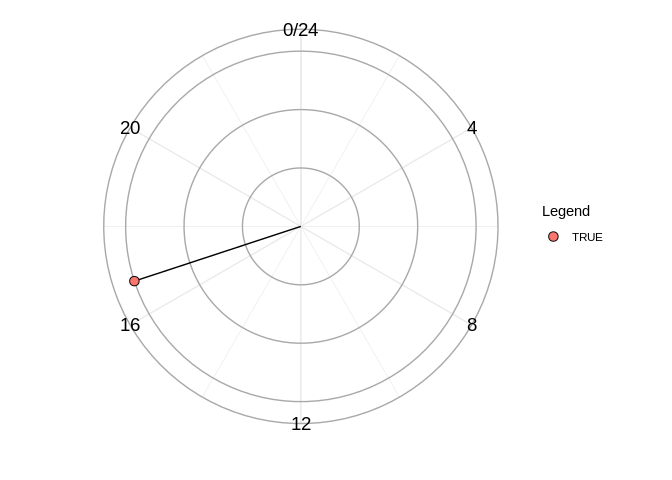
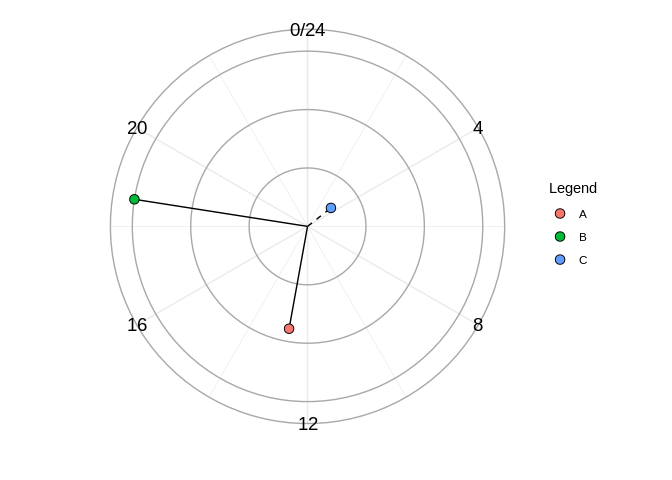
updated with placeholder figues

diff --git a/README.md b/README.md
@@ -163,7 +163,15 @@ interventions (explored further in Sections 3 and 4).
 
 ### Figures
 
+``` r
+gg_kronos_circle(output)
+```
+
 ![](README_files/figure-gfm/figures-1.png)<!-- -->
+
+``` r
+gg_kronos_sinusoid(output)
+```
 
     ## Warning: Removed 66 rows containing non-finite values (`stat_summary()`).
     ## Removed 66 rows containing non-finite values (`stat_summary()`).
@@ -185,15 +193,31 @@ one-way ANOVA. For examples of more complex designs, see Excursion 1.
 
 ### Figures
 
-    ## [1] "Using the following model: Variable_1 ~ Timepoint_cos + Timepoint_sin"
+``` r
+output2 <- kronos(formula = Variable_1 ~ Treatment + time(Timepoint), 
+                  data = data2, period = 24, 
+                  verbose = T, pairwise = F)
+```
+
+    ## [1] "Using the following model: Variable_1 ~ Treatment + Timepoint_cos + Timepoint_sin + Treatment:Timepoint_cos +     Treatment:Timepoint_sin - 1"
     ## [1] "Using the following model: Variable_1 ~ (Timepoint_cos + Timepoint_sin)"
+    ## [1] "Using the following model: Variable_1 ~ (Timepoint_cos + Timepoint_sin)"
+    ## [1] "Using the following model: Variable_1 ~ (Timepoint_cos + Timepoint_sin)"
+
+``` r
+gg_kronos_circle(output2)
+```
 
 ![](README_files/figure-gfm/figures_complex-1.png)<!-- -->
 
-    ## Warning: Removed 3 rows containing non-finite values (`stat_summary()`).
-    ## Removed 3 rows containing non-finite values (`stat_summary()`).
+``` r
+gg_kronos_sinusoid(output2)
+```
 
-    ## Warning: Removed 3 rows containing missing values (`geom_point()`).
+    ## Warning: Removed 197 rows containing non-finite values (`stat_summary()`).
+    ## Removed 197 rows containing non-finite values (`stat_summary()`).
+
+    ## Warning: Removed 197 rows containing missing values (`geom_point()`).
 
 ![](README_files/figure-gfm/figures_complex-2.png)<!-- -->
 
